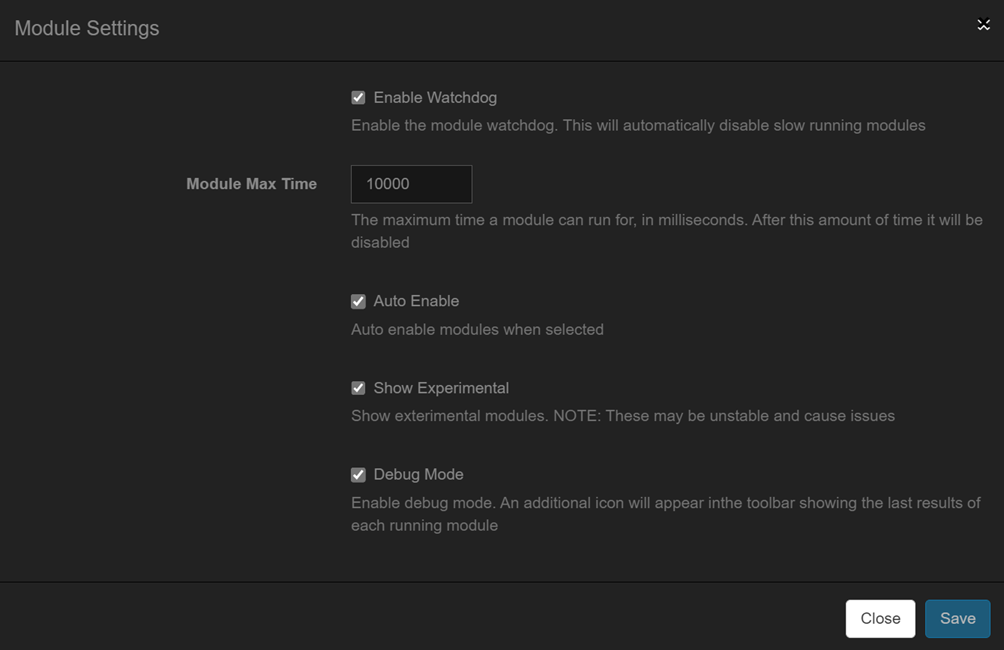
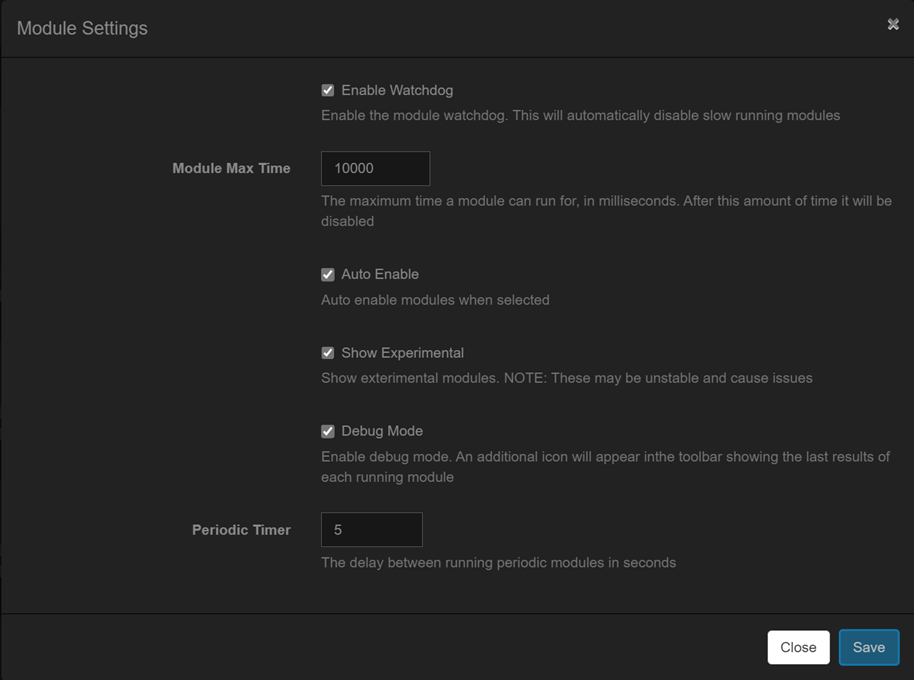
Update modules documentation

diff --git a/html/documentation/modules/modules.html b/html/documentation/modules/modules.html
@@ -223,7 +223,13 @@
                                         <li><strong>Debug Mode</strong> - When enabled a debug option is
                                             available in the toolbar which will show the results and execution
                                             time for each module</li>
+                                        <li><strong>Periodic Timer</strong> - How frequently, in seconds, the periodic
+                                            flow is run</li>
                                     </ul>
+                                    <blockquote>On occasion you may find that a module has been deactivated. THis can be
+                                        caused by the module taking longer than the 'Module Max Time' if the watchdog is
+                                        enabled. To prevent this happening you can either up the time value or disable
+                                        the watchdog all together</blockquote>
                                 </td>
                             </tr>
                         </table>
@@ -1351,7 +1357,8 @@
                                     <h4>Time synchronisation</h4>
                                     <p>Even if you set the time sync options in the GPS module the time will only be
                                         synchronised if the pi is NOT having its time updated from the internet.</p>
-                                    <p>To test if the time is currently being synchronised fom the internet enter the following command</p>
+                                    <p>To test if the time is currently being synchronised fom the internet enter the
+                                        following command</p>
                                     <div><tt>timedatectl status</tt></div>
                                     <p>Output similar to the following will be produced</p>
 
@@ -1371,7 +1378,8 @@
                                                 local TZ: <span class="red">no</span></tt></div>
                                     </div>
 
-                                    <p>Note that the 'System clock synchronized' value is 'no'. With this value 'no' the GPS module will be allowed to set the time</p>
+                                    <p>Note that the 'System clock synchronized' value is 'no'. With this value 'no' the
+                                        GPS module will be allowed to set the time</p>
                                     <p>Several environment variables are created that can be used in the overlay manager
                                     </p>
                                     <ul>
@@ -1719,6 +1727,38 @@
                         that ships with the OS. Generally that may mean reinstalling your AllSky installation to
                         get the latest version of python. Running multiple versions of python is beyond the
                         scope of this documentation </p>
+                    <h3>Contributing a module</h3>
+                    <p>There is a central GitHub repository that you can contribute your modules to. You do not have to
+                        do this but over time we wouls like to build this into a comprehensive library of available
+                        modules.</p>
+                    <p>If you wish to contribute your module then please follow these instructions</p>
+                    <p>
+                    <ul>
+                        <li>Create a fork of the User Modules repository <a
+                                href="https://github.com/Alex-developer/allsky-modules"
+                                target="_blank">https://github.com/Alex-developer/allsky-modules</a></li>
+                        <li>Create a new branch in your forked repository, call the branch the name of your module</li>
+                        <li>Develop your module and commit it to the branch</li>
+                        <li>Create a pull request into the main repo from your branch</li>
+                        <li>The module will be checked and if all is ok will be merged into the main repository</li>
+                        <li>If you need to make changes to the module after its been merged then refork the main repo
+                            create a branch from the master branch named as your module then commit ad PR to main master
+                        </li>
+                    </ul>
+                    </p>
+                    <p>The structure of a module is important so please use the following folder/file structure</p>
+                    <p><strong>allsky_MODULENAME</strong></p>
+                    <p>-- <strong>allsky_MODULENAME.py</strong> <span>The main modules code</span></p>
+                    <p>-- <strong>requirements.txt</strong> <span>Any python packages required by the plugin, will be
+                            installed with pip3. If you do not need any additional packages do not include this
+                            file</span></p>
+                    <p>-- <strong>packages.txt</strong> <span>Any aditional libraries required by the module, will be
+                            installed using apt. If you do not need any additional packages do not include this
+                            file</span></p>
+                    <p>-- <strong>README.md</strong> <span>Markdown file with any special instructions required for the
+                            module. If there are none do not include this file</span></p>
+                    <blockquote>When specifying python libraries DO NOT include numpy in ANY requirements.txt file as
+                        changing the version could cause issues with AllSky</blockquote>
                     <h3>Anatomy Of A Module</h3>
                     <p>A module consists of two key parts</p>
                     <ul>
@@ -2064,11 +2104,23 @@
                         </tr>
                         <tr>
                             <td>isFileWriteable(fileName)</td>
-                            <td> Determines of the file is writeable</td>
+                            <td>Determines of the file is writeable</td>
                         </tr>
                         <tr>
                             <td>isFileReadable(fileName)</td>
-                            <td> Determines of the file is readable</td>
+                            <td>Determines of the file is readable</td>
+                        </tr>
+                        <tr>
+                            <td>saveExtraData(fileName, extraData)</td>
+                            <td>Saves the extraData in fileName.</td>
+                        </tr>
+                        <tr>
+                            <td>deleteExtraData(fileName)</td>
+                            <td>Deletes the extra data fileName.</td>
+                        </tr>
+                        <tr>
+                            <td>getGPIOPin(pin)</td>
+                            <td>Returns the board.Pin from the passed in pin (int)</td>
                         </tr>
                     </table>
                 </details>
